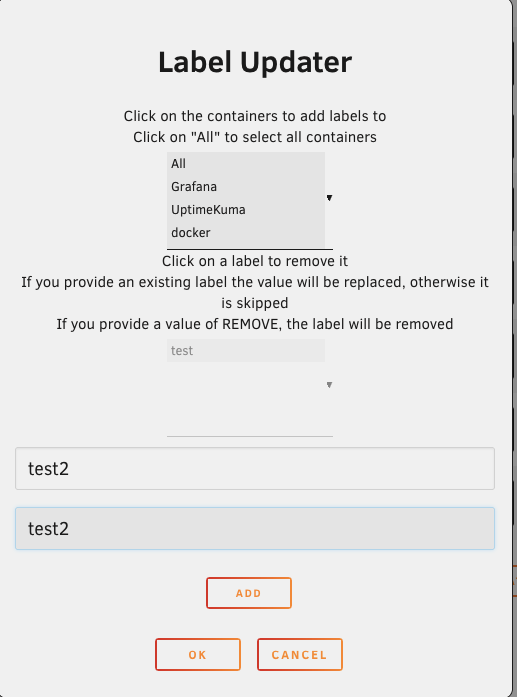
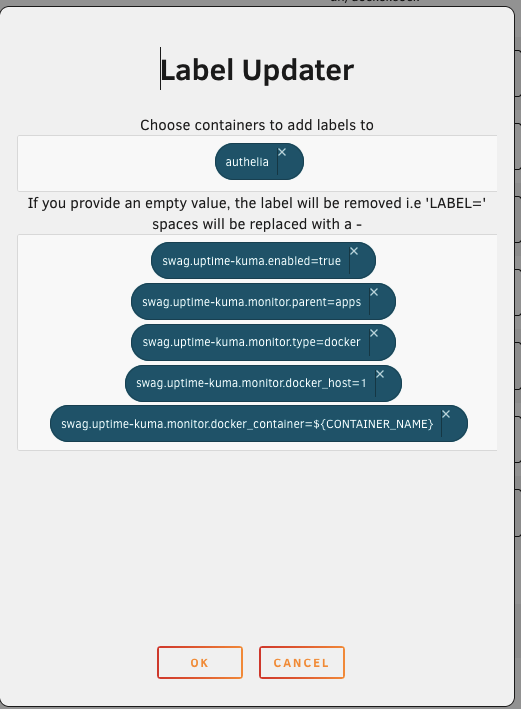
update pics and readme

diff --git a/README.md b/README.md
@@ -2,6 +2,9 @@
 
 Until i workout how to add the plugin to CA install via `https://raw.githubusercontent.com/phyzical/docker.labelInjector/main/docker.labelInjector.plg`
 
+You can add defaults to be prefilled each time via the settings page
+![settings](images/settings.png)
+
 After installing, just click the "Add Labels" button
 
 ![button](images/button.png)
@@ -15,7 +18,6 @@ If the label does not exist it will be added.
 If you enter a value of `REMOVE` it will instead remove the label if found.
 
 Before it updates it will backup the template being used just incase something does go wrong.
-
 ![form](images/form.png)
 
 If you find this happen you should eb able to restore the backup via `/boot/config/plugins/dockerMan/templates-user/my-TEMPLATE_NAME.DATE.bak`
